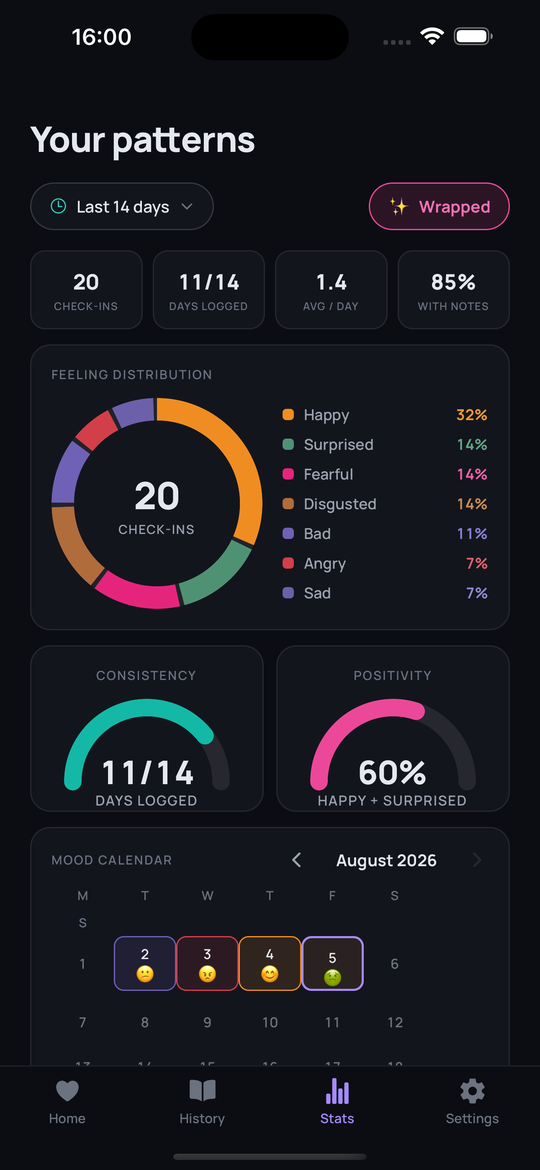
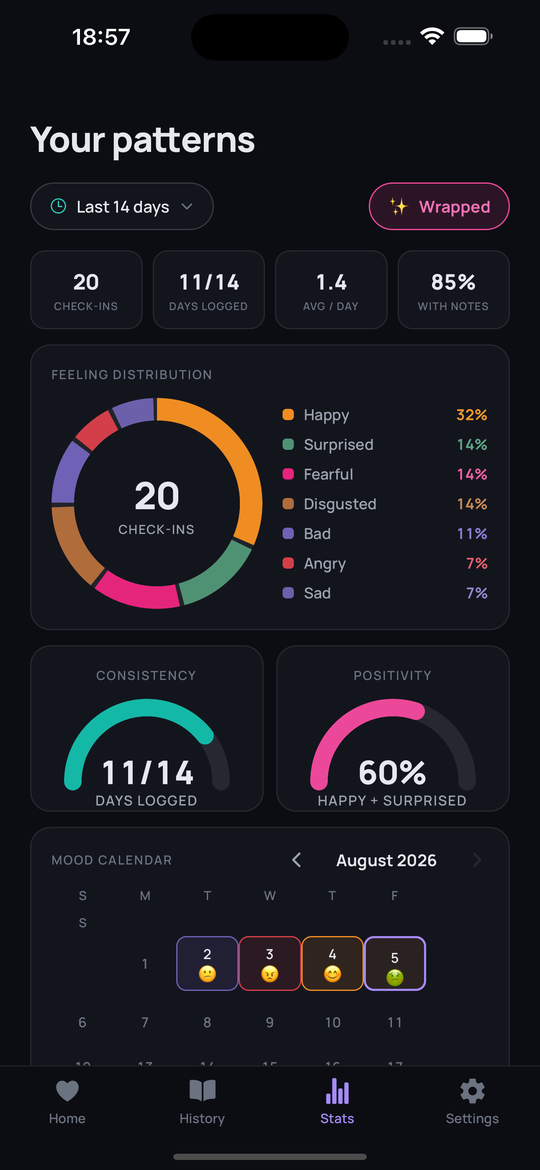
docs(readme): refresh features and screenshots for v1.6.0 — themes, sharing, pinned widget, waveform, legends

diff --git a/README.md b/README.md
@@ -19,7 +19,8 @@ Everything stays on your device. Nothing is ever uploaded.
   (7 cores → 41 branches → 130+ exact feelings), each in its authentic color
 - **Multiple feelings per check-in** — real moments are mixed
 - **Intensity slider** (1–5), **tags** (#work, #family…) with suggestions,
-  **photo attachments** (camera or library), and **voice memos**
+  **photo attachments** (camera or library), and **voice memos** recorded
+  with a live Messenger-style waveform
 - **Quick-log mood orbs** on Home — one tap opens the wheel at that core
 
 ### The Feelings Wheel explorer
@@ -32,7 +33,8 @@ Everything stays on your device. Nothing is ever uploaded.
   positivity gauges, daily activity, time-of-day and weekday breakdowns,
   per-core branch drill-down, top feelings
 - **Kibana-style time ranges** — quick presets or absolute from/to dates
-- **Mood calendar** — each day tinted by its dominant feeling
+- **Mood calendar** — each day tinted by its dominant feeling, with a
+  color legend and tappable days ("Day 5 — mostly Happy · 3 check-ins")
 - **Trends** — 12-week positivity % and average-intensity lines with
   moving averages
 - **Monthly Wrapped ✨** — a shareable summary card of your month
@@ -45,6 +47,13 @@ Everything stays on your device. Nothing is ever uploaded.
   celebration; **30 rotating daily reflection prompts**
 - **First-launch onboarding** — the wheel, the privacy promise, reminders
 
+### Share & keep
+- **Share as text** — one entry or a multi-selection, neatly templated
+  (feeling path, date, intensity dots, note, #tags) through the system
+  share sheet
+- **Pinned memory widget 📌** — pin a cherished entry to your home screen
+  on Android and iOS
+
 ### Yours alone
 - **100% on-device** — SQLite storage, no accounts, no servers, no analytics
 - **Auto-backup** to storage *you* own (Files app on iOS, any folder on
@@ -52,8 +61,11 @@ Everything stays on your device. Nothing is ever uploaded.
 - **English + العربية** with full RTL, instant switching
 - **Home-screen widgets** on both Android and iOS — today's mood and a
   one-tap log button
-- **Optional haptics**, dark glassy design, Space Grotesk + Manrope +
-  IBM Plex Sans Arabic
+- **Dark & light themes** (or follow the system), a living animated
+  backdrop, optional haptics, Space Grotesk + Manrope + IBM Plex Sans
+  Arabic typography
+- **Make it yours** — week start day, default stats range, system-language
+  follow, and an About page with the privacy manifesto
 
 ## Install
 
